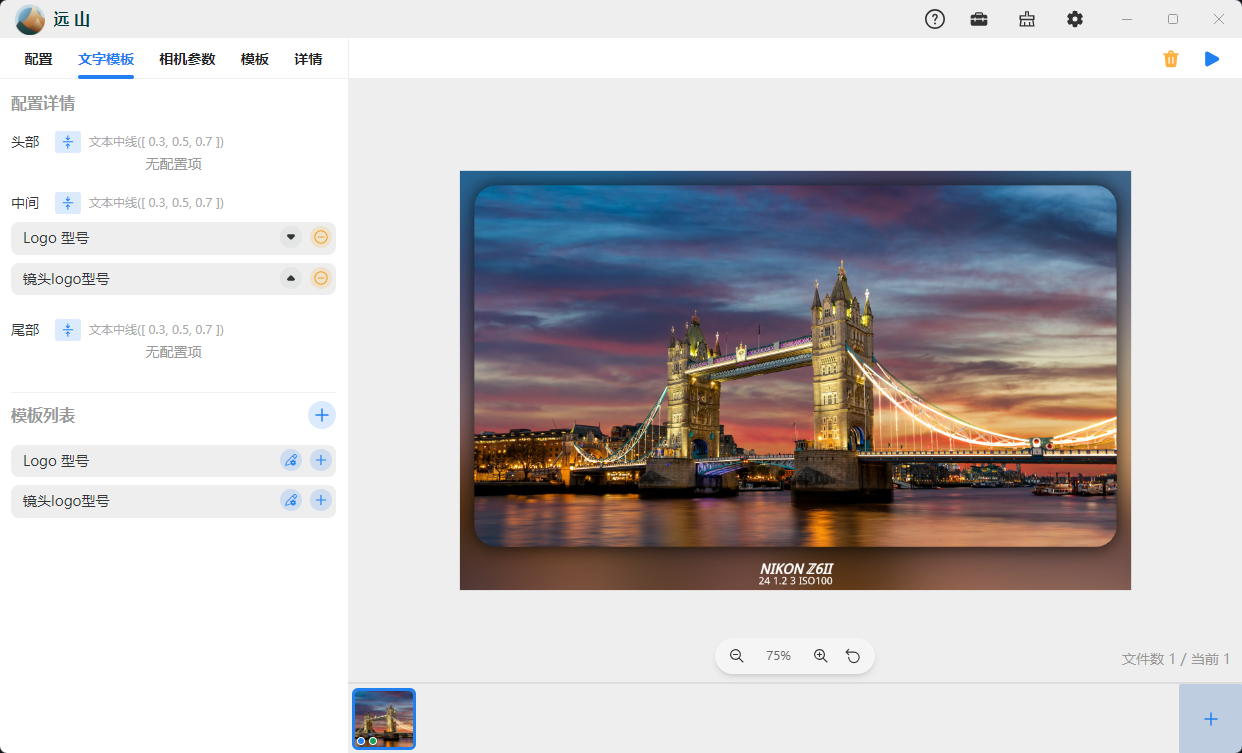
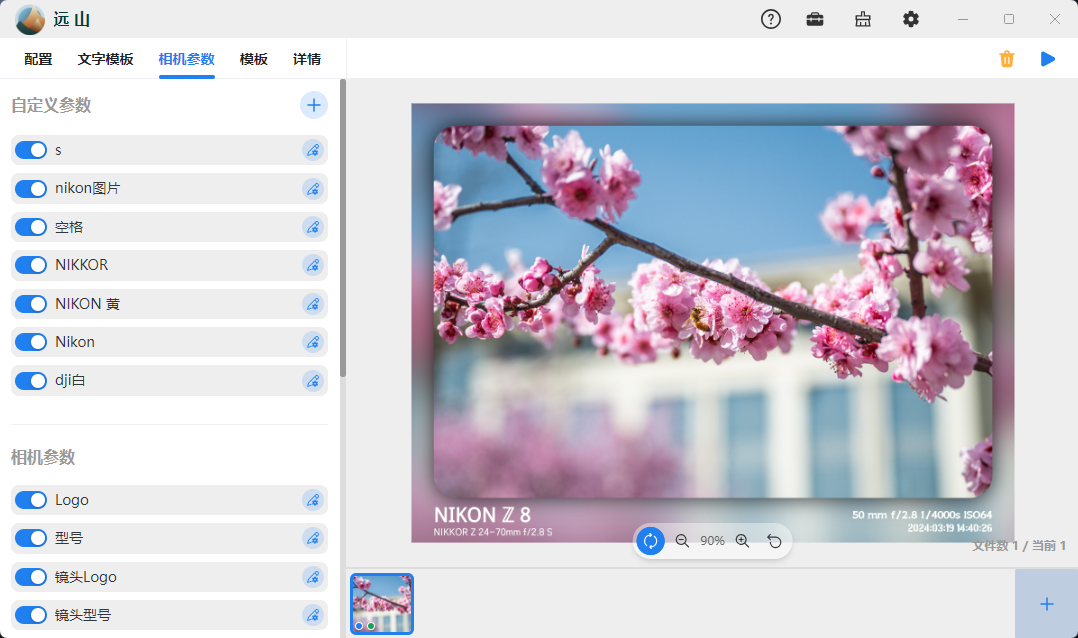
fix:修复和优化

diff --git a/src/renderer/src/view/components/OptionDetail.vue b/src/renderer/src/view/components/OptionDetail.vue
@@ -1,7 +1,7 @@
 <script setup lang="ts">
-import { Copy24Regular } from '@vicons/fluent'
+import { Copy24Regular, ArrowReset24Regular } from '@vicons/fluent'
 
-import { computed } from 'vue'
+import { computed, ref } from 'vue'
 import { useMessage } from 'naive-ui'
 
 import { useFileStore } from '@renderer/store/file'
@@ -13,10 +13,17 @@ const store = useFileStore()
 // 当前预览中的照片
 const currentPhoto = computed(() => store._imageData[store._currentPreIndex] || null)
 
-// 可编辑字段（内置 exif 字段，排除图片宽高这类自动项）
+// 只读字段（图片宽高，自动读取、仅展示不可编辑）
+const READONLY_KEYS = ['Image Width', 'Image Height']
+
+// 详情字段：可编辑的内置字段 + 只读的宽高
 const fields = exifFields
-	.filter((f) => f.name && f.show !== false)
-	.map((f) => ({ key: f.key, name: f.name as string }))
+	.filter((f) => f.name && (f.show !== false || READONLY_KEYS.includes(f.key)))
+	.map((f) => ({
+		key: f.key,
+		name: f.name as string,
+		editable: !READONLY_KEYS.includes(f.key)
+	}))
 
 const valueOf = (key: string): string => {
 	return (currentPhoto.value?.exif?.exif?.[key] as string) ?? ''
@@ -38,6 +45,24 @@ const onCopy = () => {
 		.then(() => message.success('已复制参数'))
 		.catch(() => message.error('复制失败'))
 }
+
+// 重置：重新读取该照片的原始元数据，覆盖手动修改
+const resetting = ref(false)
+const onReset = async () => {
+	const photo = currentPhoto.value
+	if (!photo || resetting.value) return
+	resetting.value = true
+	try {
+		await photo.exif.load(photo.exif.file)
+		// 重置后主动刷新预览
+		store.refreshPreview()
+		message.success('已重置为原始元数据')
+	} catch {
+		message.error('重置失败')
+	} finally {
+		resetting.value = false
+	}
+}
 </script>
 
 <template>
@@ -46,13 +71,18 @@ const onCopy = () => {
 			<span class="color6 text-2.5 leading-5">
 				缺少 EXIF 的字段可手动填写/修改，改动后预览实时更新。
 			</span>
-			<div class="relative">
-				<img v-if="currentPhoto.perUrl" :src="currentPhoto.perUrl"
-					class="block w-full max-h-40 object-cover rounded-lg mb-3 bg-color13" />
-				<n-button class="absolute top-2 right-2" size="tiny" type="info" @click="onCopy">
+			<div class="flex gap-1 justify-end my-2">
+				<n-button size="tiny" type="warning" :loading="resetting" title="重置为原始元数据" @click="onReset">
+					<template #icon>
+						<n-icon :component="ArrowReset24Regular" />
+					</template>
+					重置
+				</n-button>
+				<n-button size="tiny" type="info" title="复制参数" @click="onCopy">
 					<template #icon>
 						<n-icon :component="Copy24Regular" />
 					</template>
+					复制参数
 				</n-button>
 			</div>
 
@@ -61,8 +91,13 @@ const onCopy = () => {
 					<div class="w-18 flex-shrink-0 text-xs color6 text-right pr-2 truncate" :title="field.name">
 						{{ field.name }}
 					</div>
-					<n-input class="flex-1" size="small" placeholder="未填写" :value="valueOf(field.key)"
-						@update:value="(v: string) => onEdit(field.key, v)" />
+					<n-input v-if="field.editable" class="flex-1" size="small" placeholder="未填写"
+						:value="valueOf(field.key)" @update:value="(v: string) => onEdit(field.key, v)" />
+					<div v-else
+						class="flex-1 text-xs color9 px-2 h-7 flex items-center bg-color13 rounded border-1 border-solid border-color15 truncate"
+						:title="valueOf(field.key)">
+						{{ valueOf(field.key) || '-' }}
+					</div>
 				</div>
 			</div>
 		</template>

diff --git a/src/renderer/src/hooks/exifFactory.ts b/src/renderer/src/hooks/exifFactory.ts
@@ -81,46 +81,28 @@ class ExifFactory {
 	// 获取对应的数据
 	get(key: string) {
 		const data = this.exif[key]
-		// 源头拦截：值缺失时直接返回 null，避免被前缀/拼接成 "ISOnull"、"NaN" 等再绘制上去
+		// 值缺失时返回 null，避免被拼接成 "ISOnull" 等再绘制上去
 		if (data === null || data === undefined || data === '') {
 			return null
 		}
 		if (key === 'Image Height' || key === 'Image Width') {
 			return Number(data?.replace('px', ''))
 		}
-		if (key === 'Make') {
-			// 去掉第一个空格之后的内容 NIKON CORPORATION => NIKON
-			return data?.split(' ')[0]
-		}
 		if (key === 'Model') {
 			const make = (this.exif['Make'] || '').toUpperCase()
-			const model = data.trim()
-			const firstToken = model.split(' ')[0]
-			let result = model
-			// 仅当型号开头确实是品牌名时才去掉品牌前缀，避免误删型号本身（如富士 X-T5、索尼 ZV-E10）
-			if (firstToken && make.includes(firstToken.toUpperCase())) {
-				result = model.slice(firstToken.length).trimStart()
-			}
-			// 下划线转间隔点：Z 6_2 => Z 6·2
-			result = result.replace(/_/g, '·')
-			// 尼康 Z 系列风格化——仅对尼康生效，不影响其它品牌型号中的 Z
-			if (make.includes('NIKON')) {
+			// 保留型号原文（不去除品牌前缀），仅做风格化处理
+			let result = data.trim()
+			// 尼康 Z 系列风格化（Z => ℤ）——尼康机型才生效，避免影响其它品牌型号中的 Z
+			if (make.includes('NIKON') || result.toUpperCase().includes('NIKON')) {
 				result = result.replace(/[Zz]/g, 'ℤ')
 			}
 			return result
 		}
-		if (key === 'FocalLength') {
-			// 去掉空格 56 mm => 56mm
-			return data?.replace(' ', '')
-		}
+		// 仅 ISO 加前缀：100 => ISO100
 		if (key === 'ISOSpeedRatings') {
-			// 100 => ISO100
 			return `ISO${data}`
 		}
-		if (key === 'LensModel') {
-			// 去除镜头厂商
-			return data?.replace(data?.split(' ')[0] + ' ', '')
-		}
+		// 其余字段原样返回
 		return data
 	}
 }

diff --git a/src/renderer/src/store/file.ts b/src/renderer/src/store/file.ts
@@ -11,7 +11,12 @@ import {
 	OptionTextTemplateValues,
 	OptionLensValues,
 	TextPositionValues,
+	TextTemplatePositionEnum,
 } from "@renderer/interfaces/options";
+
+import { useOptionBasicStore } from "@renderer/store/optionBasic";
+import { useOptionTextStore } from "@renderer/store/optionText";
+import { useOptionLensStore } from "@renderer/store/optionLens";
 
 import FileWorker from "@renderer/hooks/fileWorker.ts?worker";
 
@@ -95,6 +100,25 @@ export const useFileStore = defineStore("file", () => {
 		_imageData.value[_currentPreIndex.value].onPrint(data, textPosition);
 	};
 
+	// 主动刷新当前预览：自动从各 option store 组装参数后重绘。
+	// 用于模板应用、配置导入、详情重置等离散动作，保证一定触发实时更新。
+	const refreshPreview = async () => {
+		if (fileLength.value === 0) return;
+		const basicStore = useOptionBasicStore();
+		const textStore = useOptionTextStore();
+		const lensStore = useOptionLensStore();
+		await startPreview({
+			basic: basicStore._data,
+			text: textStore._data,
+			lens: lensStore._data,
+			textPosition: {
+				headerTextPosition: textStore.getTextPosition(TextTemplatePositionEnum.HEADER),
+				middleTextPosition: textStore.getTextPosition(TextTemplatePositionEnum.MIDDLE),
+				footerTextPosition: textStore.getTextPosition(TextTemplatePositionEnum.FOOTER),
+			},
+		});
+	};
+
 	// 开始输出
 	const startOutput = async (options: {
 		basic: OptionBasicValues;
@@ -159,6 +183,7 @@ export const useFileStore = defineStore("file", () => {
 		removeFile,
 		getFile,
 		startPreview,
+		refreshPreview,
 		startOutput,
 		reset,
 		setCurrentPreIndex,

diff --git a/src/renderer/src/view/components/PreImage.vue b/src/renderer/src/view/components/PreImage.vue
@@ -1,11 +1,13 @@
 <!-- 预览模式下，图片预览效果（支持缩放/拖拽） -->
 <script setup lang="ts">
-import { ZoomIn24Regular, ZoomOut24Regular, ArrowReset24Regular } from '@vicons/fluent'
+import { ZoomIn24Regular, ZoomOut24Regular, ArrowReset24Regular, ArrowSync24Regular } from '@vicons/fluent'
 
 import { useFileStore } from '@renderer/store/file'
 import { computed, ref, watch } from 'vue'
 
 import ImageData from '@renderer/hooks/imageData'
+
+const emit = defineEmits(['refresh'])
 
 const store = useFileStore()
 
@@ -96,14 +98,19 @@ const onUp = () => {
 
 		<!-- 缩放控件 -->
 		<div
-			class="absolute bottom-2 left-1/2 -translate-x-1/2 flex items-center gap-1 bg-white/40 rounded-full px-2 py-1 shadow-md"
+			class="absolute bottom-2 left-1/2 -translate-x-1/2 flex items-center gap-1 bg-white/40 rounded-full px-1 py-1 shadow-md"
 			@mousedown.stop @wheel.stop>
-			<n-button quaternary circle size="small" @click="zoomOut">
+			<n-button type="primary" circle size="small" title="刷新预览" @click="emit('refresh')">
+				<template #icon>
+					<n-icon :component="ArrowSync24Regular" />
+				</template>
+			</n-button>
+			<n-button quaternary circle size="small" title="缩小" @click="zoomOut">
 				<template #icon>
 					<n-icon :component="ZoomOut24Regular" />
 				</template>
 			</n-button>
-			<span class="text-xs color6 w-12 text-center cursor-pointer select-none" title="还原" @click="reset">
+			<span class="text-xs color6 text-center cursor-pointer select-none" title="还原" @click="reset">
 				{{ Math.round(scale * 100) }}%
 			</span>
 			<n-button quaternary circle size="small" @click="zoomIn">

diff --git a/src/renderer/src/hooks/paramsUtils.ts b/src/renderer/src/hooks/paramsUtils.ts
@@ -108,11 +108,6 @@ const getTemplate = async (
 					data.font = len.font as string
 				}
 
-				// 规范化文本：去除首尾空白，避免前导/尾随空格导致 canvas 测量与绘制错位（如 " Z 8" 只显示 "8"）
-				if (typeof data.content === 'string') {
-					data.content = data.content.trim()
-				}
-
 				arr.push(data)
 			}
 

diff --git a/src/renderer/src/hooks/useConfigIO.ts b/src/renderer/src/hooks/useConfigIO.ts
@@ -1,6 +1,7 @@
 import { useOptionBasicStore } from '@renderer/store/optionBasic'
 import { useOptionTextStore } from '@renderer/store/optionText'
 import { useOptionLensStore } from '@renderer/store/optionLens'
+import { useFileStore } from '@renderer/store/file'
 import {
 	buildConfig,
 	downloadConfig,
@@ -17,6 +18,7 @@ export function useConfigIO() {
 	const basicStore = useOptionBasicStore()
 	const textStore = useOptionTextStore()
 	const lensStore = useOptionLensStore()
+	const fileStore = useFileStore()
 
 	// 汇总当前配置（基础 + 文字模板含中线位置 + 相机参数）
 	const collectConfig = (): YuanshanConfig => {
@@ -45,6 +47,8 @@ export function useConfigIO() {
 		if (cloned.basic) basicStore.setAll(cloned.basic)
 		if (cloned.text?.templates) textStore.setAll(cloned.text.templates, cloned.text.textPositions)
 		if (cloned.lens) lensStore.setAll(cloned.lens)
+		// 应用后主动刷新预览，保证模板应用/配置导入一定触发实时更新
+		fileStore.refreshPreview()
 	}
 
 	// 从文件导入并应用

diff --git a/src/renderer/src/view/ImageSpace.vue b/src/renderer/src/view/ImageSpace.vue
@@ -184,9 +184,9 @@ onMounted(async () => {
 				</div>
 
 				<div v-if="fileList.length > 0" class="w-full flex-1 min-h-0 flex-center overflow-hidden">
-					<pre-image />
+					<pre-image @refresh="onStart" />
 				</div>
-				<div class="color9 absolute bottom-3 right-3">
+				<div class="color9 absolute bottom-3 right-3 text-3 font-bold">
 					文件数 {{ fileList.length }} / 当前 {{ index + 1 }}
 				</div>
 				<!-- <div v-if="loading"